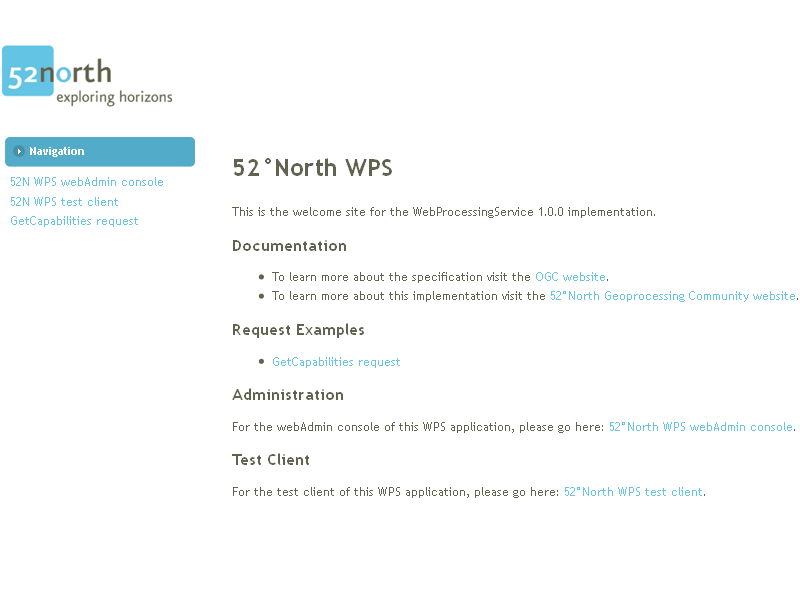
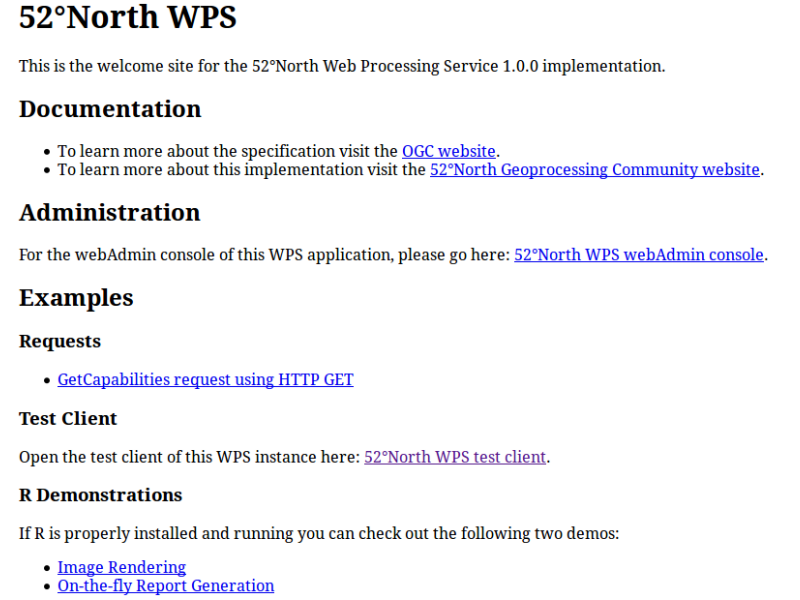
Updated 52nWPS overview and quickstart.
git-svn-id: http://svn.osgeo.org/osgeo/livedvd/gisvm/trunk@10471 7da46fd8-bd2a-0410-a152-cf9810cf5b10

diff --git a/doc/en/quickstart/52nWPS_quickstart.rst b/doc/en/quickstart/52nWPS_quickstart.rst
@@ -1,5 +1,5 @@
 :Author: Benjamin Pross, Kristof Lange
-:Version: osgeo-live6.5
+:Version: osgeo-live7.0
 :License: Creative Commons Attribution-ShareAlike 3.0 Unported  (CC BY-SA 3.0)
 
 .. image:: ../../images/project_logos/logo_52North_160.png
@@ -21,31 +21,43 @@ Running
 .. image:: ../../images/screenshots/800x600/52nWPS_welcome_page.png
   :scale: 100 %
   :alt: screenshot
-  :align: center
-
-* Click on the link to open the 52nWPS-TestClient. 
-* Make sure that you have started :doc:`GeoServer <../overview/geoserver_overview>` since the demonstrations require data from the local GeoServer installation.
-
-
-.. image:: ../../images/screenshots/1024x768/52n_test_client.png
-  :scale: 100 %
-  :alt: screenshot
-  :align: center
-  
-  
-* Push the Send-Button and the request will be transmitted to the 52°North WPS which will
-  generate a xml-representation for a buffer around the major roads of Tasmania with a width of 0.05 degrees.
-
-.. image:: ../../images/screenshots/1024x768/52n_wps_response.png
-  :scale: 100 %
-  :alt: screenshot
-  :align: center
-  
+  :align: right
 
 * Check out the capabilities of the 52°North WPS with this request:
 
   http://localhost:8080/52nWPS/WebProcessingService?Request=GetCapabilities&Service=WPS
 
+* Click on the link to open the 52nWPS-TestClient. 
+* Make sure that you have started :doc:`GeoServer <../overview/geoserver_overview>` since the demonstrations require data from the local GeoServer installation.
+
+
+.. image:: ../../images/screenshots/800x600/52nWPS_test_client.png
+  :scale: 100 %
+  :alt: screenshot
+  :align: right
+  
+  
+* Push the Send-Button and the request will be transmitted to the 52°North WPS which will
+  generate a buffer around the major roads of Tasmania with a width of 0.05 degrees and store
+  the result in GeoServer. 
+
+.. image:: ../../images/screenshots/800x600/52nWPS_output_stored_in_wfs.png
+  :scale: 100 %
+  :alt: screenshot
+  :align: right
+  
+* Copy the ResourceID from the response. This is the name of the GeoServer layer. Add the ID to the
+  following request: http://localhost:8082/geoserver/wms?service=WMS&version=1.1.0&request=GetMap&styles=&bbox=145.14757902405984,-43.47330297262748,148.32274986232298,-40.80286290459129&width=512&height=430&srs=EPSG:4326&format=application/openlayers&layers=Add-ResourceID-here
+  You should get the following result:
+
+.. image:: ../../images/screenshots/800x600/52nWPS_output_stored_in_wfs.png
+  :scale: 100 %
+  :alt: screenshot
+  :align: right
+
+* Try out other example requests from the dropdown list of the WPS test client.
+
+* You could also install the WPS plugin for QGIS and try it out with the 52°North WPS.
 	
 * For further questions you can contact the 52°North WPS mailing list:
 

diff --git a/doc/en/overview/52nWPS_overview.rst b/doc/en/overview/52nWPS_overview.rst
@@ -21,7 +21,7 @@ processing algorithms provided by Sextante, ArcGIS Server, R, GRASS 7, or custom
 functions. Algorithms may be as simple as determining the difference in 
 influenza cases between two different seasons, or as complicated as a global climate change model.
 
-.. image:: ../../images/screenshots/1024x768/52n_test_client.png
+.. image:: ../../images/screenshots/800x600/52nWPS_test_client.png
   :scale: 50 %
   :alt: screenshot
   :align: right
@@ -70,7 +70,7 @@ Details
 
 **Supported Platforms:** Windows, Linux, Mac
 
-**Commercial Support:** http://www.52north.org
+**Commercial Support:** http://52north.org
 
 
 Quickstart
